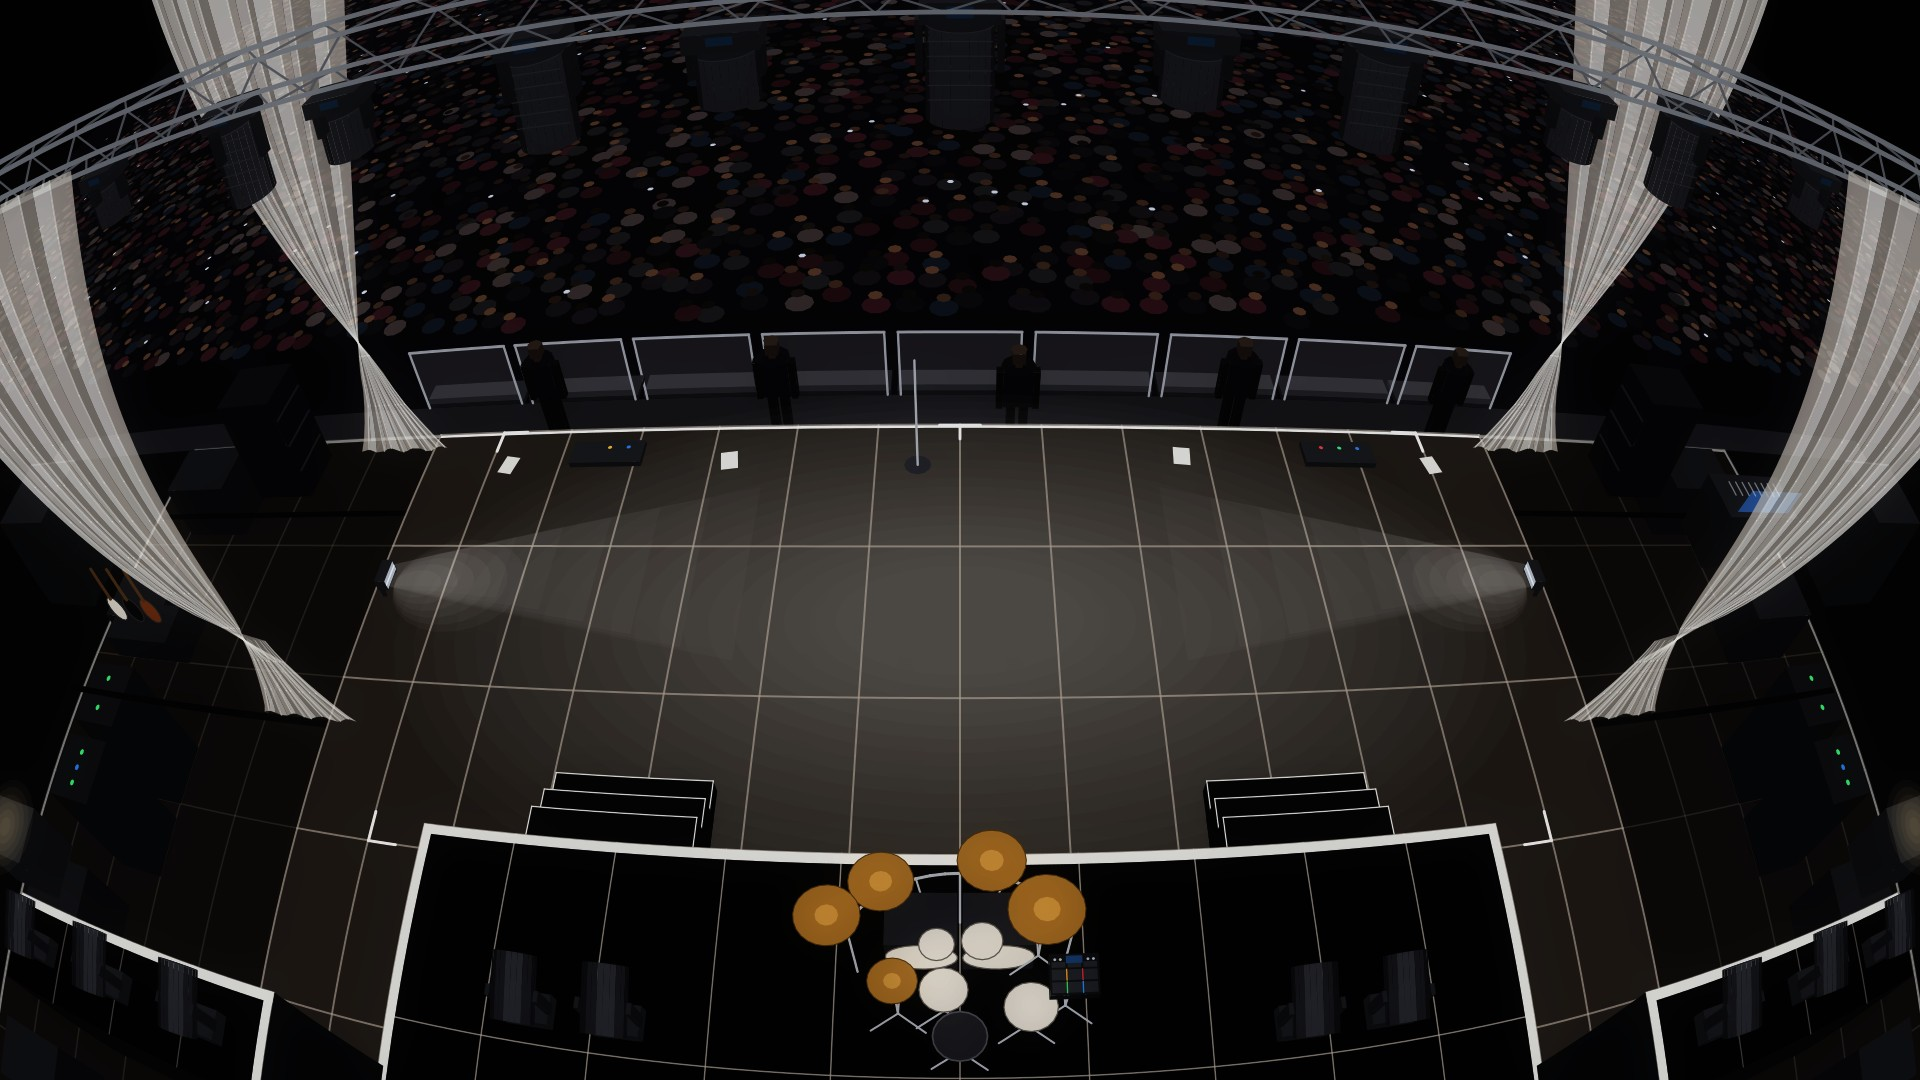
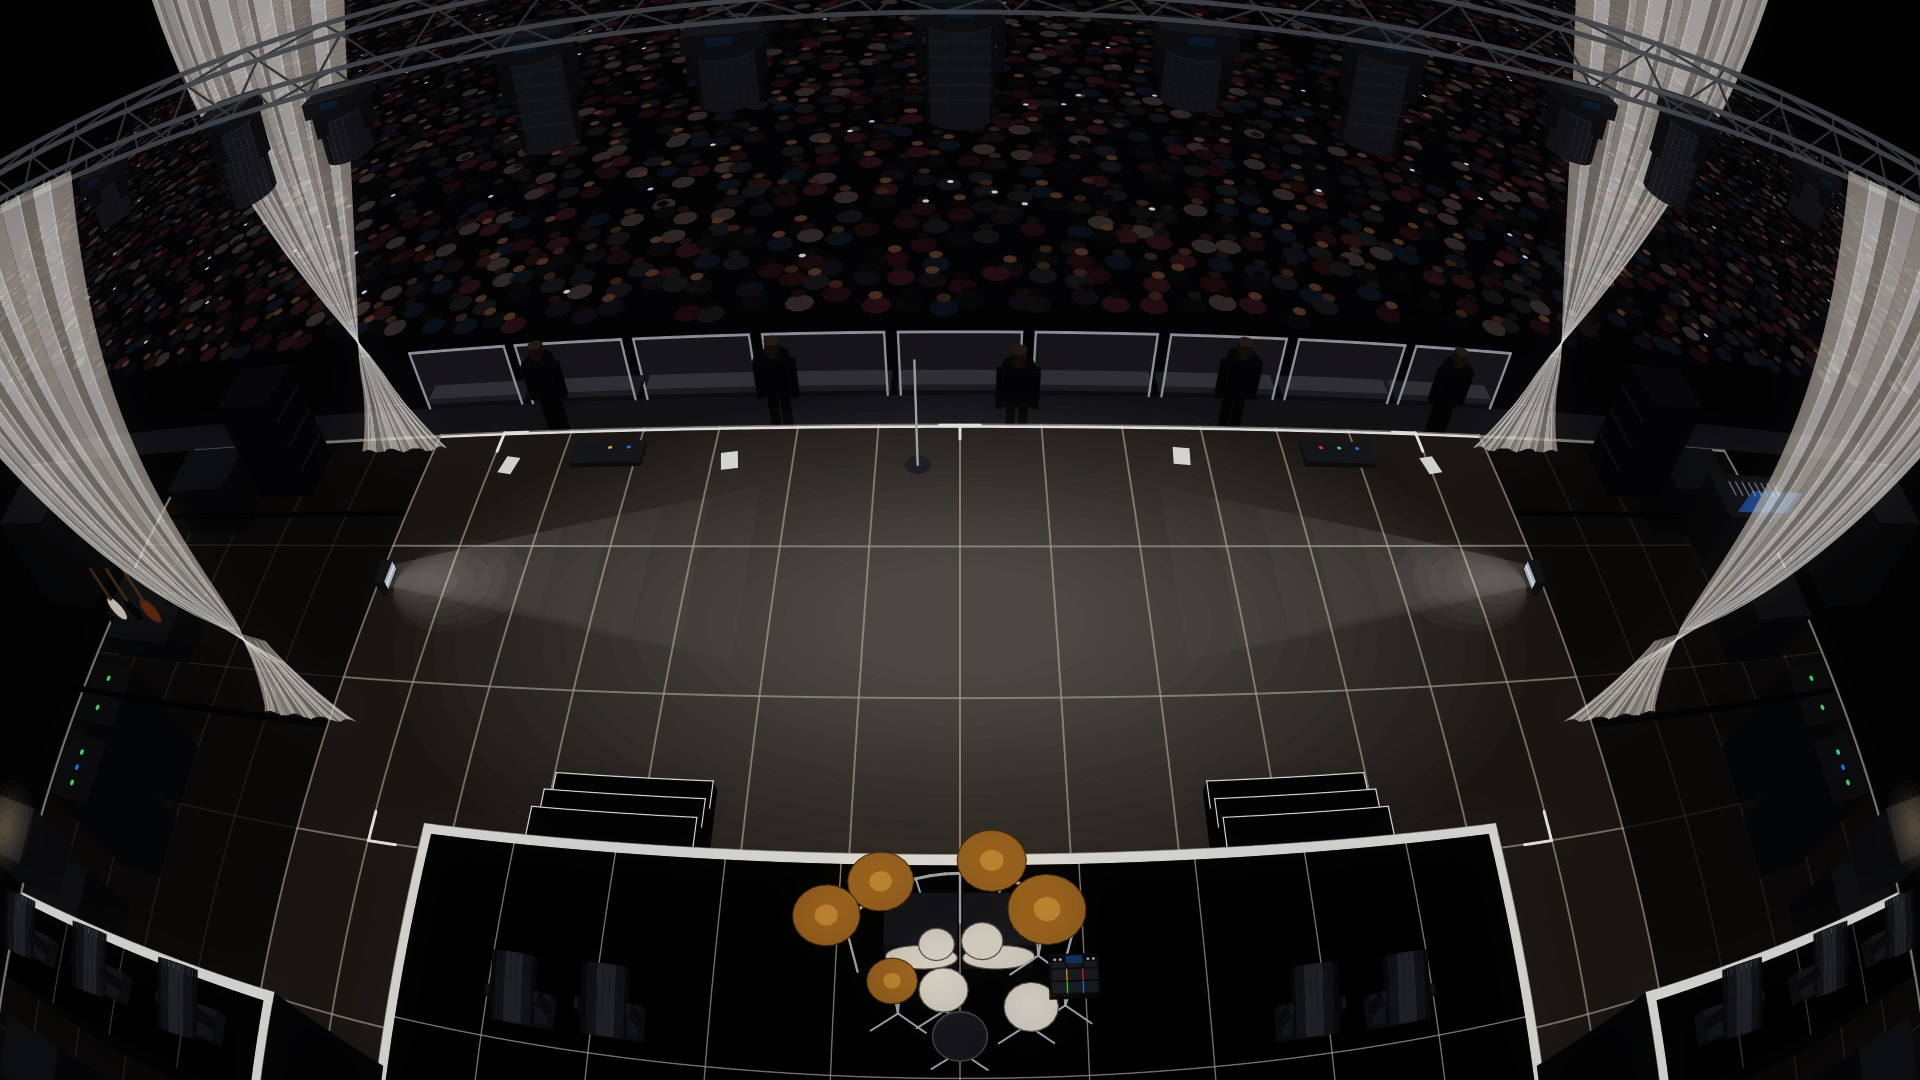
chore(gallery): darken the Concert's mid truss further

Changed region(s): [[0.0, 0.0, 1.0, 0.1833]]

diff --git a/scripts/gen_concert_default.py b/scripts/gen_concert_default.py
@@ -78,7 +78,7 @@ C_BG, C_HOUSE, C_DECK, C_SEAM = "#050507", "#0d0b10", "#3a332d", "#c9c0b5"
 C_OFF, C_WING_DECK, C_RISER_TOP, C_RISER_FACE = "#0c0c0f", "#1f1b18", "#070708", "#0e0f12"
 C_DRAPE, C_DRAPE_DARK, C_BARR = "#e4e2df", "#9a9692", "#b8bcc4"
 C_SILVER = "#c6cad1"  # drum hardware
-C_TRUSS, C_TRUSS_LACING = "#8e9299", "#72767d"  # aluminium truss chords and lacing, in shadow
+C_TRUSS, C_TRUSS_LACING = "#6a6d73", "#53565b"  # aluminium truss chords and lacing, in shadow
 GAMMA = 1.55  # darkens the scene and keeps the tape white
 TAPE = "#ffffff"
 C_EDGE = "#a9a9a6"  # the safety line along the wings' edges, dimmer than the tape
